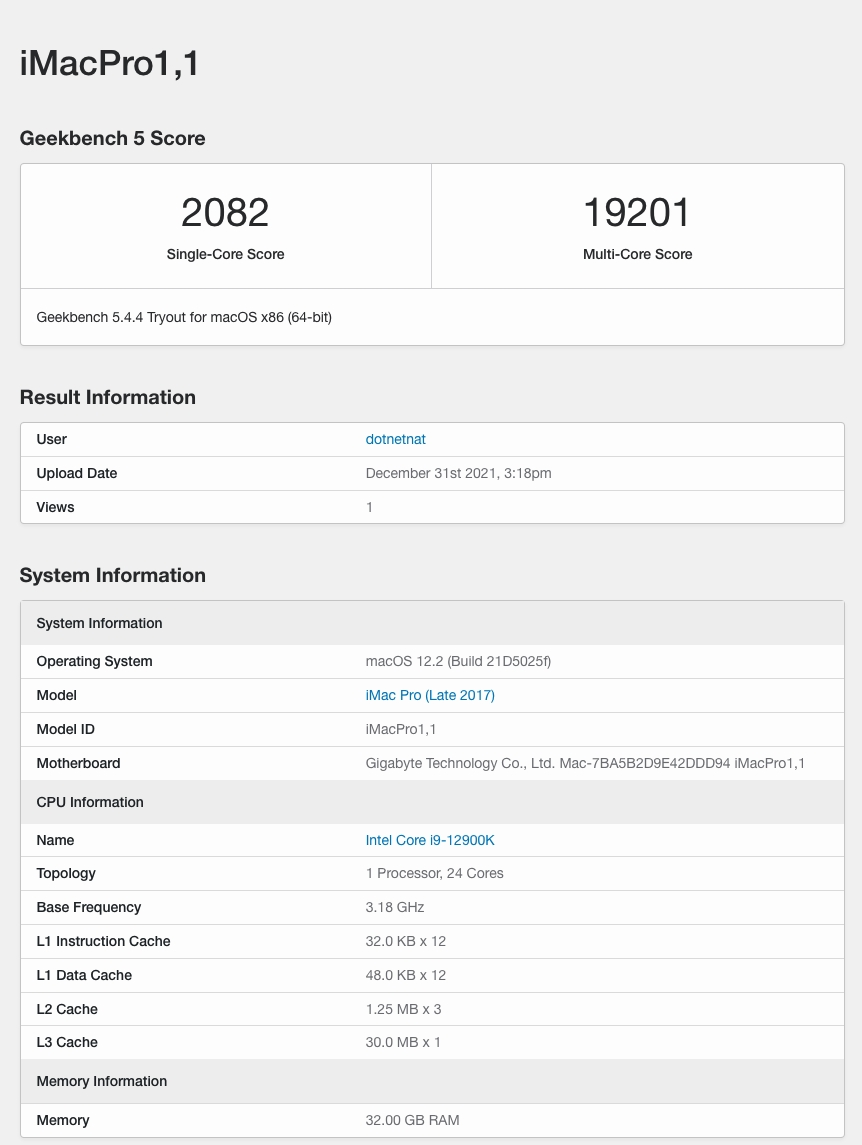
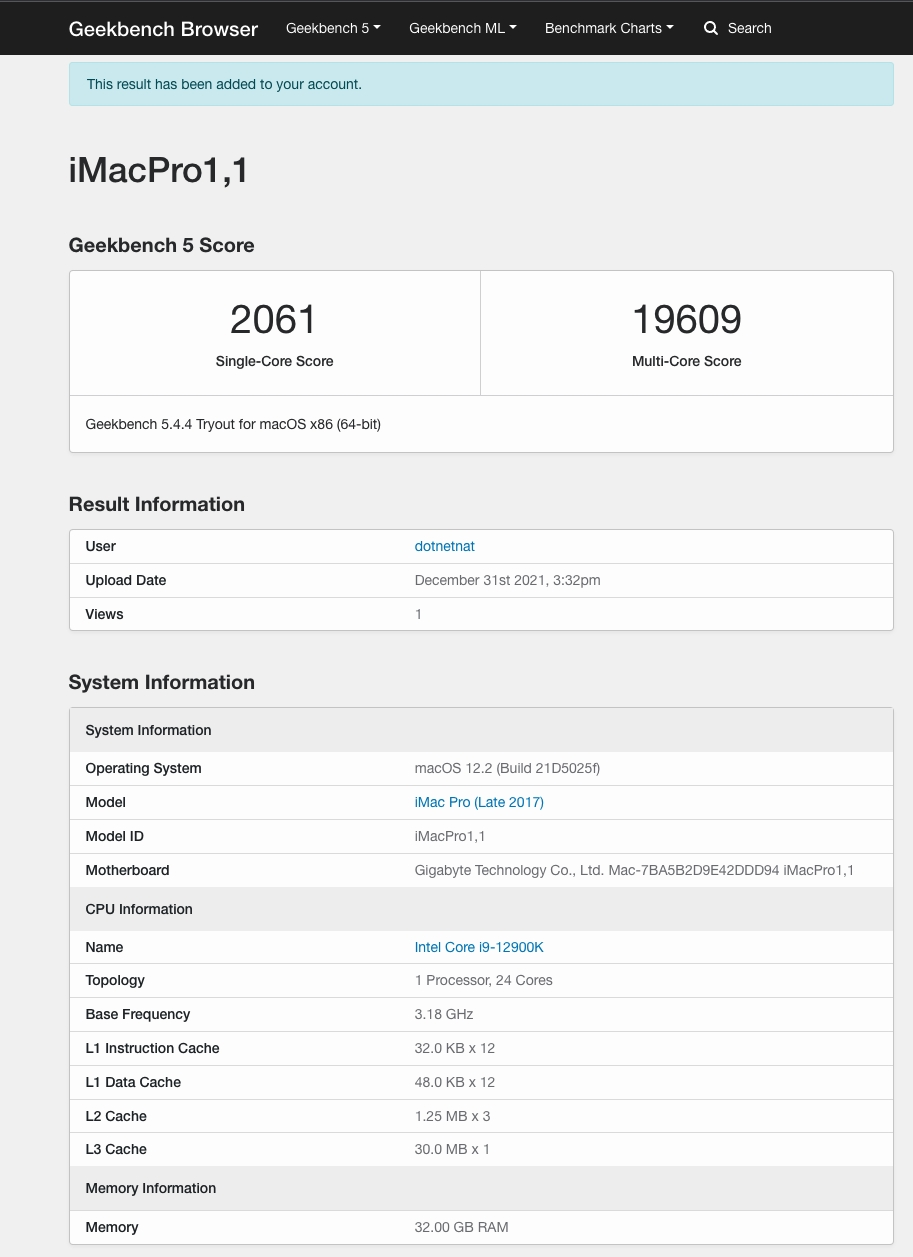
clean test

diff --git a/README.md b/README.md
@@ -6,10 +6,11 @@ GPU : Sapphire VGA NITRO+ RX 6600 XT
 M/B : Gigabyte Z690 Aorus Pro
 RAM : 2 x Crucial 16GB Unbuffered DDR5 4800MHz CL40 DIMM / OC 5400
 ```
-
+### OC
+![Screenshot](Resources/1.0.jpg)
 ### Monterey
 ##### GeekBench 5
-https://browser.geekbench.com/v5/cpu/11910441
+https://browser.geekbench.com/v5/cpu/11910605
 ![Screenshot](Resources/1.1.jpg)
 ![Screenshot](Resources/1.jpg)
 ![Screenshot](Resources/2.jpg)
